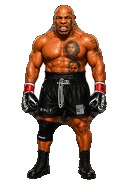
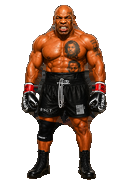
Clear Tin Mick ooh armpit wedges and add Default Female boxer
Punch transparent wedges between arms and torso on Tin Mick ooh.
Add Default Female with baked ring poses from three user uploads.

Changed region(s): [[0.25, 0.3125, 0.375, 0.5], [0.6562, 0.3125, 0.75, 0.5], [0.25, 0.1875, 0.3125, 0.2188]]

diff --git a/frontend/src/play/face/characters.ts b/frontend/src/play/face/characters.ts
@@ -11,6 +11,7 @@ import type { GloveLoadoutId } from '../gloveLoadout';
  */
 export type StockCharacterId =
   | 'default'
+  | 'default-female'
   | 'byson'
   | 'tin-mick'
   | 'the-don'
@@ -155,6 +156,15 @@ export const CHARACTERS: Record<StockCharacterId, CharacterDef> = {
   default: makeCharacter('default', 'Default Boxer', {
     bodyId: 'generic',
   }),
+  'default-female': makeCharacter('default-female', 'Default Female', {
+    ringBackdropSrc: RING_BACKDROP,
+    bodyId: 'body-default-female',
+    bakedRingPoses: {
+      idleSrc: assetUrl('/boxer/bodies/default-female-idle.png'),
+      oohSrc: assetUrl('/boxer/bodies/default-female-ooh.png'),
+      knockoutSrc: assetUrl('/boxer/bodies/default-female-knockout.png'),
+    },
+  }),
   byson: makeCharacter('byson', 'Byson', {
     bodyId: 'generic',
     faceScale: 1.18,
@@ -235,6 +245,7 @@ export const CHARACTERS: Record<StockCharacterId, CharacterDef> = {
 
 export const CHARACTER_LIST: CharacterDef[] = [
   CHARACTERS.default,
+  CHARACTERS['default-female'],
   CHARACTERS.byson,
   CHARACTERS['tin-mick'],
   CHARACTERS['the-don'],
@@ -253,6 +264,7 @@ export const CHARACTER_STORAGE_KEY = 'mickeys-gym-character';
 export function isStockCharacterId(value: string | null | undefined): value is StockCharacterId {
   return (
     value === 'default' ||
+    value === 'default-female' ||
     value === 'byson' ||
     value === 'tin-mick' ||
     value === 'the-don' ||

diff --git a/frontend/src/play/bodyStyles.ts b/frontend/src/play/bodyStyles.ts
@@ -20,7 +20,8 @@ export type BodyStyleId =
   | 'body-bozza'
   | 'body-greenie'
   | 'body-don'
-  | 'body-tin-mick';
+  | 'body-tin-mick'
+  | 'body-default-female';
 
 export interface BodyStyle {
   id: BodyStyleId;
@@ -211,6 +212,14 @@ export const BODY_STYLES: Record<BodyStyleId, BodyStyle> = {
     [0.4082, 0.0215, 0.6064, 0.179],
     0.0664
   ),
+  'body-default-female': body(
+    'body-default-female',
+    'Default Female',
+    '/boxer/bodies/default-female-idle.png',
+    '/boxer/bodies/default-female-idle-thumb.png',
+    [0.4082, 0.0215, 0.6064, 0.179],
+    0.0664
+  ),
 };
 
 export const BODY_STYLE_LIST: BodyStyle[] = [
@@ -232,6 +241,7 @@ export const BODY_STYLE_LIST: BodyStyle[] = [
   BODY_STYLES['body-greenie'],
   BODY_STYLES['body-don'],
   BODY_STYLES['body-tin-mick'],
+  BODY_STYLES['body-default-female'],
 ];
 
 export const DEFAULT_BODY_STYLE_ID: BodyStyleId = 'generic';

diff --git a/frontend/src/gym/SparringPartner.tsx b/frontend/src/gym/SparringPartner.tsx
@@ -194,3 +194,6 @@ useTexture.preload(assetUrl('/boxer/bodies/don-knockout.png'));
 useTexture.preload(BODY_STYLES['body-tin-mick'].textureSrc);
 useTexture.preload(assetUrl('/boxer/bodies/tin-mick-ooh.png'));
 useTexture.preload(assetUrl('/boxer/bodies/tin-mick-knockout.png'));
+useTexture.preload(BODY_STYLES['body-default-female'].textureSrc);
+useTexture.preload(assetUrl('/boxer/bodies/default-female-ooh.png'));
+useTexture.preload(assetUrl('/boxer/bodies/default-female-knockout.png'));

diff --git a/frontend/scripts/bake_default_female_ring_poses.py b/frontend/scripts/bake_default_female_ring_poses.py
@@ -1,0 +1,91 @@
+#!/usr/bin/env python3
+"""Bake Default Female whole-body solid ring poses from user-authored full renders.
+
+Sources (repo root uploads — mapped by pose content):
+  idle      → file_00000000ac6081f4ad4602d25e0427c0.png  (boxing guard)
+  ooh       → file_00000000bcb481f4b197416e7096600a.png  (ooh mouth)
+  knockout  → file_00000000059481f4a3929a6a5c7301e0.png  (exhausted slump)
+
+Outputs: public/boxer/bodies/default-female-{idle,ooh,knockout}.png (+ thumbs)
+Face pack refresh: public/faces/characters/default-female/{clean,ooh,knockout}.png
+"""
+from __future__ import annotations
+
+from pathlib import Path
+
+import numpy as np
+from PIL import Image
+
+from bake_bozza_ring_poses import assert_solid, pack, remove_bg, seal_silhouette
+
+ROOT = Path(__file__).resolve().parents[1]
+REPO_ROOT = ROOT.parent
+OUT = ROOT / 'public/boxer/bodies'
+FACES = ROOT / 'public/faces/characters/default-female'
+W, H = 1024, 1536
+TOP_PAD = 40
+
+USER_IMPORTS = {
+    'idle': REPO_ROOT / 'file_00000000ac6081f4ad4602d25e0427c0.png',
+    'ooh': REPO_ROOT / 'file_00000000bcb481f4b197416e7096600a.png',
+    'knockout': REPO_ROOT / 'file_00000000059481f4a3929a6a5c7301e0.png',
+}
+
+
+def extract_face_pack(arr: np.ndarray) -> np.ndarray:
+    """Crop head and upper neck from a keyed full-body render for the face pack."""
+    solid = arr[:, :, 3] > 40
+    ys, xs = np.where(solid)
+    y0, y1, x0, x1 = int(ys.min()), int(ys.max()), int(xs.min()), int(xs.max())
+    fig_h = y1 - y0
+    head_y1 = y0 + int(0.36 * fig_h)
+    cx = (x0 + x1) // 2
+    half_w = int((x1 - x0) * 0.34)
+    pad = 48
+    crop = arr[
+        max(0, y0 - pad) : min(H, head_y1 + pad),
+        max(0, cx - half_w - pad) : min(W, cx + half_w + pad),
+    ]
+    canvas = np.zeros((H, W, 4), np.uint8)
+    ch, cw = crop.shape[:2]
+    paste_x = (W - cw) // 2
+    paste_y = max(48, TOP_PAD // 2)
+    canvas[paste_y : paste_y + ch, paste_x : paste_x + cw] = crop
+    return canvas
+
+
+def sync_user_face_packs() -> None:
+    for pose, face_name in (('idle', 'clean.png'), ('ooh', 'ooh.png'), ('knockout', 'knockout.png')):
+        import_path = USER_IMPORTS.get(pose)
+        if import_path and import_path.exists():
+            keyed = np.asarray(remove_bg(Image.open(import_path).convert('RGBA')))
+            Image.fromarray(extract_face_pack(keyed)).save(FACES / face_name, optimize=True)
+
+
+def save_pose_outputs(pose: str, packed: Image.Image) -> None:
+    packed.save(OUT / f'default-female-{pose}.png', optimize=True)
+    thumb = packed.resize((128, 192), Image.Resampling.LANCZOS)
+    t = np.array(thumb.convert('RGBA'))
+    t[:, :, 3] = np.where(t[:, :, 3] > 40, 255, 0).astype(np.uint8)
+    Image.fromarray(np.array(seal_silhouette(Image.fromarray(t), close_iters=3))).save(
+        OUT / f'default-female-{pose}-thumb.png', optimize=True
+    )
+    print('wrote', pose)
+
+
+def main() -> None:
+    OUT.mkdir(parents=True, exist_ok=True)
+    FACES.mkdir(parents=True, exist_ok=True)
+    sync_user_face_packs()
+    for pose, path in USER_IMPORTS.items():
+        if not path.exists():
+            raise SystemExit(f'missing source for {pose}: {path}')
+        keyed = remove_bg(Image.open(path))
+        sealed = seal_silhouette(keyed)
+        packed = seal_silhouette(pack(sealed))
+        assert_solid(packed, pose)
+        save_pose_outputs(pose, packed)
+
+
+if __name__ == '__main__':
+    main()

diff --git a/frontend/scripts/bake_tin_mick_ring_poses.py b/frontend/scripts/bake_tin_mick_ring_poses.py
@@ -15,8 +15,9 @@ from pathlib import Path
 
 import numpy as np
 from PIL import Image
+from scipy import ndimage
 
-from bake_bozza_ring_poses import assert_solid, pack, remove_bg, seal_silhouette
+from bake_bozza_ring_poses import pack, remove_bg, seal_silhouette
 
 ROOT = Path(__file__).resolve().parents[1]
 REPO_ROOT = ROOT.parent
@@ -30,6 +31,59 @@ USER_IMPORTS = {
     'ooh': REPO_ROOT / 'file_00000000677c81f6bcd1e297b6b30f27.png',
     'knockout': REPO_ROOT / 'file_00000000597c81f4ad8f06e92ddd3792.png',
 }
+
+
+def armpit_clear_mask_ooh(body: np.ndarray) -> np.ndarray:
+    """Wider wedges for arms-down ooh pose — clears white gaps beside the torso."""
+    solid = body[:, :, 3] > 40
+    if not solid.any():
+        return np.zeros(solid.shape, dtype=bool)
+    ys, xs = np.where(solid)
+    y0, y1, x0, x1 = int(ys.min()), int(ys.max()), int(xs.min()), int(xs.max())
+    fig_h, fig_w = y1 - y0, x1 - x0
+
+    mask = np.zeros(solid.shape, dtype=bool)
+    y_top = y0 + int(0.10 * fig_h)
+    y_bot = y0 + int(0.52 * fig_h)
+    for y in range(y_top, y_bot):
+        t = (y - y_top) / max(1, y_bot - y_top - 1)
+        lx0 = x0 + int(fig_w * (0.04 + 0.10 * t))
+        lx1 = x0 + int(fig_w * (0.34 - 0.02 * t))
+        mask[y, lx0:lx1] = True
+        rx1 = x1 - int(fig_w * (0.04 + 0.10 * t))
+        rx0 = x1 - int(fig_w * (0.34 - 0.02 * t))
+        mask[y, rx0:rx1] = True
+
+    hull = ndimage.binary_fill_holes(ndimage.binary_closing(solid, iterations=3))
+    return mask & hull
+
+
+def punch_ooh_armpit_wedges(arr: np.ndarray) -> np.ndarray:
+    """Clear pale studio fill between inner arms and torso on the ooh pose."""
+    out = arr.copy()
+    rgb = out[:, :, :3].astype(np.int16)
+    mx = rgb.max(axis=2)
+    chroma = mx - rgb.min(axis=2)
+    wedge = armpit_clear_mask_ooh(out)
+    pale = (out[:, :, 3] > 40) & (mx > 160) & (chroma < 55)
+    out[wedge & pale, 3] = 0
+    return out
+
+
+def assert_pose_solid(packed: Image.Image, pose: str) -> None:
+    arr = np.asarray(packed)
+    allow = armpit_clear_mask_ooh(arr) if pose == 'ooh' else None
+    if allow is not None:
+        allow = ndimage.binary_dilation(allow, iterations=2)
+    alpha = arr[:, :, 3]
+    opaque = alpha == 255
+    holes_mask = ndimage.binary_fill_holes(opaque) & ~opaque
+    if allow is not None:
+        holes_mask &= ~allow
+    holes = int(holes_mask.sum())
+    if holes:
+        raise SystemExit(f'{pose} not solid: holes={holes}')
+    print(f'{pose}: solid opaque={int(opaque.sum())}')
 
 
 def extract_face_pack(arr: np.ndarray) -> np.ndarray:
@@ -83,7 +137,9 @@ def main() -> None:
         keyed = remove_bg(Image.open(path))
         sealed = seal_silhouette(keyed)
         packed = seal_silhouette(pack(sealed))
-        assert_solid(packed, pose)
+        if pose == 'ooh':
+            packed = Image.fromarray(punch_ooh_armpit_wedges(np.asarray(packed)))
+        assert_pose_solid(packed, pose)
         save_pose_outputs(pose, packed)
 
 
